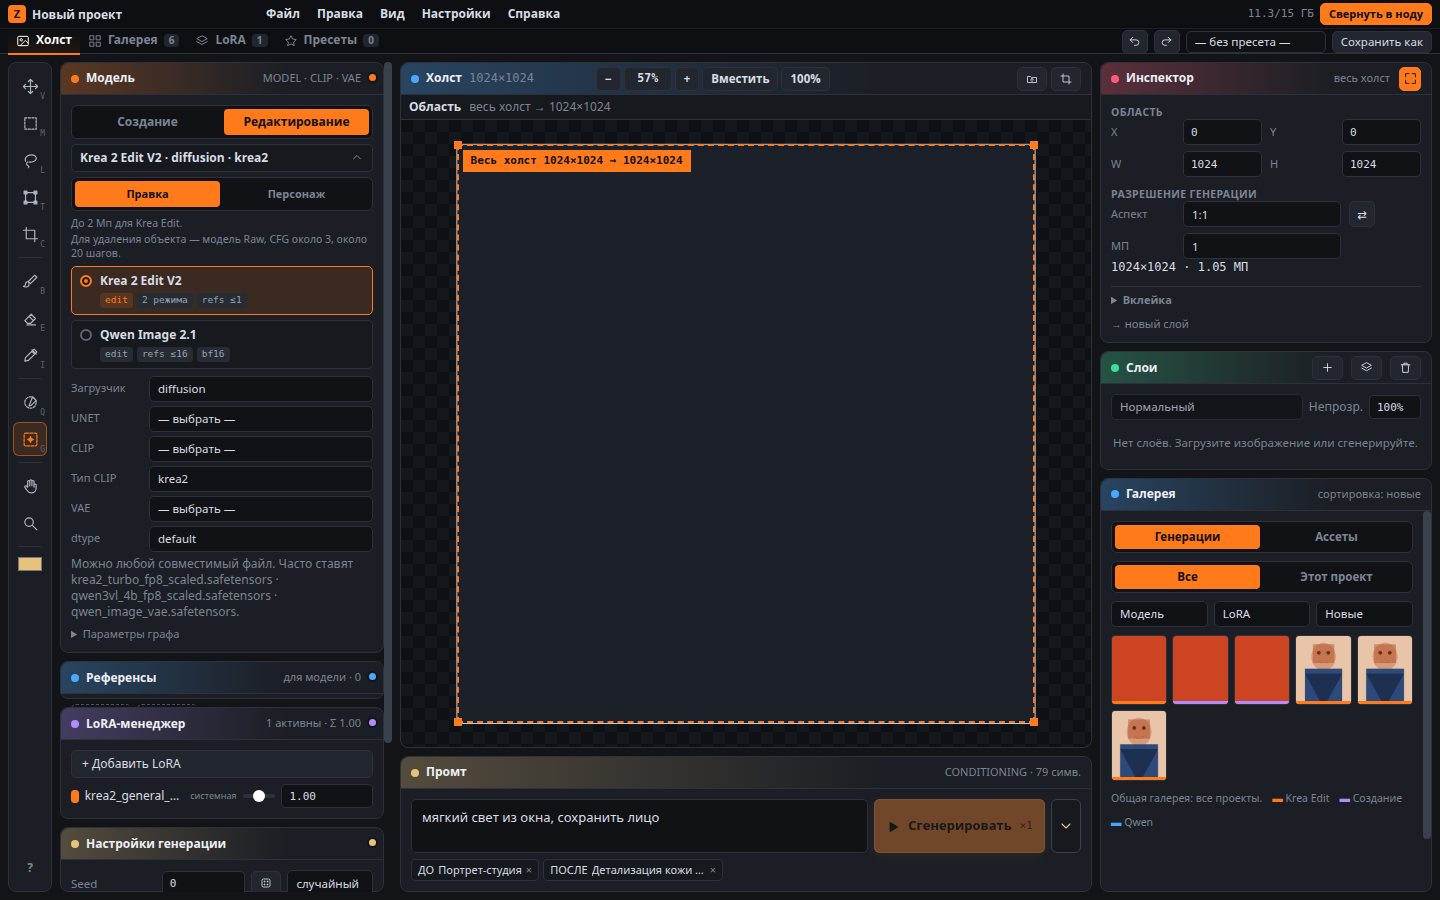
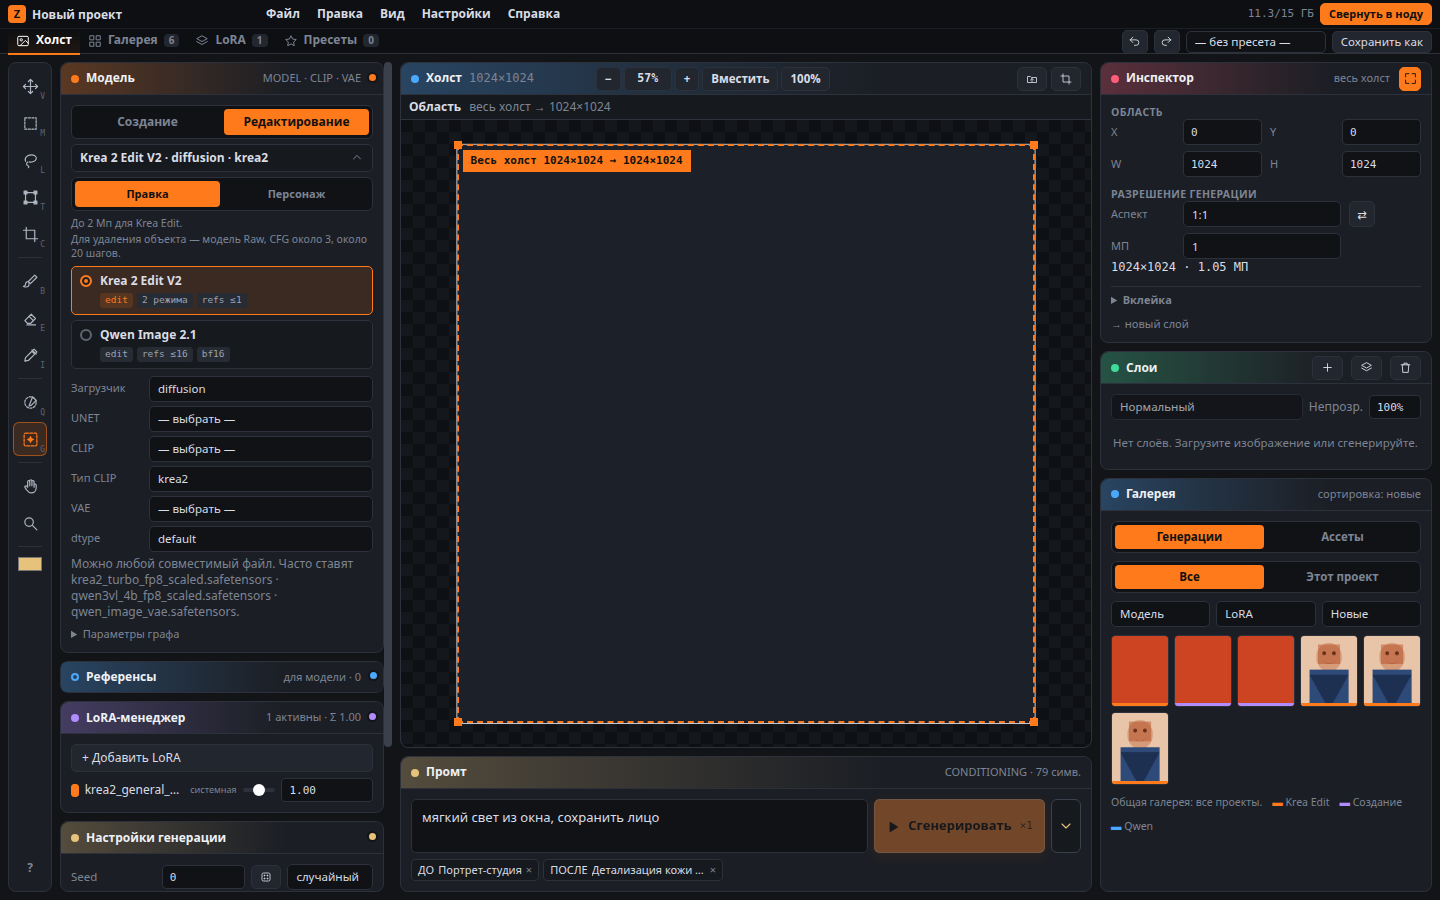
Hide every non-header child when a panel is collapsed.
A closed panel between open neighbours still painted a strip of its own box under the header. The header is now the whole card, and any body, including slots drawn later, is hidden again after each redraw.

diff --git a/web/zeroimagestudio_app.js b/web/zeroimagestudio_app.js
@@ -1043,6 +1043,7 @@
       $("ref-hint").textContent = "В режиме Создание референсы не идут в модель. «Описать изображение» и «Улучшить» берут выбранные кадры (если ничего не выбрано — все).";
     }
     if (window.zeroImageStudioHydrateIcons) window.zeroImageStudioHydrateIcons(host);
+    sealCollapsed($("refs-node"));
   }
 
   function activeLoras() { return cfg().loras; }
@@ -1090,6 +1091,7 @@
       ${rows || `<div class="empty">В стеке пусто. Добавьте LoRA из папки models/loras — весь каталог здесь не показывается.</div>`}
     </div>`;
     if (window.zeroImageStudioHydrateIcons) window.zeroImageStudioHydrateIcons($("lora-panel"));
+    sealCollapsed($("lora-node"));
   }
 
   function loraListing(path, query) {
@@ -1932,6 +1934,7 @@
       </div>`;
     }).join("") || `<div class="empty">Нет слоёв. Загрузите изображение или сгенерируйте.</div>`;
     if (window.zeroImageStudioHydrateIcons) window.zeroImageStudioHydrateIcons(host);
+    sealCollapsed(node);
   }
 
   let ppEditingId = null;
@@ -2278,6 +2281,7 @@
     if (sort) sort.title = sort.value === "old" ? "Сначала старые" : "Сначала новые";
     const label = $("gal-sort-label");
     if (label && sort) label.textContent = "сортировка: " + (sort.value === "old" ? "старые" : "новые");
+    sealCollapsed($("gallery-node"));
   }
 
   function assetMeta(asset) {
@@ -2316,6 +2320,7 @@
     $("gal-count").textContent = String(items.length);
     const label = $("gal-sort-label");
     if (label) label.textContent = "ассеты";
+    sealCollapsed($("gallery-node"));
   }
 
   function openAssetMenu(x, y, id) {
@@ -4578,9 +4583,23 @@
       const gone = id !== "canvas" && !!(layout.hidden && layout.hidden[id]);
       node.classList.toggle("collapsed", on);
       node.classList.toggle("panel-hidden", gone);
+      sealCollapsed(node);
       const dot = node.querySelector(":scope > .nh .d");
       if (dot && id !== "canvas") dot.title = on ? "Развернуть" : "Свернуть";
     });
+  }
+
+  function sealCollapsed(node) {
+    if (!node || !node.classList) return;
+    const collapsed = node.classList.contains("collapsed") && node.dataset.panel !== "canvas";
+    for (const child of node.children) {
+      if (child.classList.contains("nh") || child.classList.contains("sock")) continue;
+      if (collapsed) {
+        if (!child.hasAttribute("hidden")) child.setAttribute("hidden", "");
+      } else if (child.hasAttribute("hidden")) {
+        child.removeAttribute("hidden");
+      }
+    }
   }
 
   function layoutFromDom() {
@@ -4705,6 +4724,13 @@
       if (!node || node.dataset.panel === "canvas") return;
       togglePanel(node.dataset.panel);
     });
+    const sealObs = new MutationObserver((records) => {
+      for (const rec of records) {
+        const node = rec.target.closest && rec.target.closest(".node.collapsed");
+        if (node) sealCollapsed(node);
+      }
+    });
+    sealObs.observe(cols, { subtree: true, childList: true, attributes: true, attributeFilter: ["hidden", "class"] });
   }
 
   function focusGraph() {

diff --git a/web/zeroimagestudio.css b/web/zeroimagestudio.css
@@ -103,11 +103,15 @@ select.dd { appearance: none; min-width: 0; max-width: 100%; }
 .node:has(> .sock.l) > .nh { padding-left: 22px; }
 .node:has(> .sock.r) > .nh { padding-right: 22px; }
 .node.collapsed {
+  display: block !important;
   flex: 0 0 auto !important;
   height: auto !important;
   min-height: 0 !important;
   max-height: none !important;
   padding: 0 !important;
+  background: transparent !important;
+  border-width: 0 !important;
+  box-shadow: none !important;
   overflow: hidden !important;
 }
 .node.collapsed > :not(.nh):not(.sock),
@@ -123,11 +127,12 @@ select.dd { appearance: none; min-width: 0; max-width: 100%; }
   overflow: hidden !important;
   visibility: hidden !important;
   flex: 0 0 0 !important;
+  position: static !important;
 }
 .left .node.collapsed .nb,
 .right .node.collapsed .nb,
 .center .node.collapsed .nb { overflow: hidden !important; }
-.node.collapsed > .nh { border-bottom: 0; border-radius: 7px; }
+.node.collapsed > .nh { border: 1px solid var(--ln); border-radius: 7px; }
 .node.collapsed > .nh .d { background: transparent; box-shadow: inset 0 0 0 2px var(--c); }
 .node.dragging { opacity: .45; }
 .drop-line { height: 3px; border-radius: 2px; background: var(--ac); flex: none; margin: 0; pointer-events: none; }
